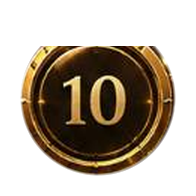
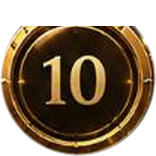
fix(kelime-avi): preserve extracted master art scale

diff --git a/test/word_hunt_production_assets_test.dart b/test/word_hunt_production_assets_test.dart
@@ -102,34 +102,56 @@ void main() {
       expect(WordHuntProductionAssets.finalIcon, endsWith('final_icon.png'));
     });
 
-    test('5, 10 ve kitap yalnız bağlayıcı MASTER ART extraction kaynağıdır', () {
-      final manifest =
-          jsonDecode(
-                File(
-                  'reports/master_art_extraction_manifest.json',
-                ).readAsStringSync(),
-              )
-              as Map<String, dynamic>;
-      expect(manifest['source'], 'Issue #109 Photo 1.jpg');
-      expect(
-        manifest['source_sha256'],
[1 lines of base64/hex data omitted]
-      );
-      expect(manifest['method'], 'direct-source-pixels-crop-mask-alpha');
+    test(
+      '5, 10 ve kitap yalnız bağlayıcı MASTER ART extraction kaynağıdır',
+      () {
+        final manifest =
+            jsonDecode(
+                  File(
+                    'reports/master_art_extraction_manifest.json',
+                  ).readAsStringSync(),
+                )
+                as Map<String, dynamic>;
+        expect(manifest['source'], 'Issue #109 Photo 1.jpg');
+        expect(
+          manifest['source_sha256'],
[1 lines of base64/hex data omitted]
+        );
+        expect(manifest['method'], 'direct-source-pixels-crop-mask-alpha');
 
-      final assets = manifest['assets'] as Map<String, dynamic>;
-      for (final entry in <(String, String)>[
-        ('node_challenge.webp', WordHuntProductionAssets.nodeChallenge),
-        ('node_final.webp', WordHuntProductionAssets.nodeFinal),
-        ('book_button.webp', WordHuntProductionAssets.bookButton),
-      ]) {
-        final metadata = assets[entry.$1] as Map<String, dynamic>;
-        final bytes = File(entry.$2).readAsBytesSync();
-        expect(sha256.convert(bytes).toString(), metadata['sha256']);
-        expect(metadata['source_pixel_identity'], true);
-        expect(metadata['generated_art'], false);
-      }
-    });
+        final assets = manifest['assets'] as Map<String, dynamic>;
+        for (final entry in <(String, String, List<int>)>[
+          (
+            'node_challenge.webp',
+            WordHuntProductionAssets.nodeChallenge,
+            <int>[112, 112],
+          ),
+          (
+            'node_final.webp',
+            WordHuntProductionAssets.nodeFinal,
+            <int>[156, 156],
+          ),
+          (
+            'book_button.webp',
+            WordHuntProductionAssets.bookButton,
+            <int>[172, 172],
+          ),
+        ]) {
+          final metadata = assets[entry.$1] as Map<String, dynamic>;
+          final bytes = File(entry.$2).readAsBytesSync();
+          expect(sha256.convert(bytes).toString(), metadata['sha256']);
+          expect(
+            metadata['dimensions'],
+            entry.$3,
+            reason:
+                'Şeffaf dış boşluk görünür MASTER ART parçasını küçültmemeli.',
+          );
+          expect(metadata['transparent_padding_trim'], isNotNull);
+          expect(metadata['source_pixel_identity'], true);
+          expect(metadata['generated_art'], false);
+        }
+      },
+    );
 
     for (final path in WordHuntProductionAssets.requiredPilotAssets) {
       testWidgets('Flutter codec decode eder: $path', (tester) async {

diff --git a/tools/extract_kelime_avi_master_art_assets.py b/tools/extract_kelime_avi_master_art_assets.py
@@ -109,8 +109,8 @@ def inner_face_alpha(
 
 
 def extract(source: Image.Image, name: str, spec: dict[str, object]) -> dict[str, object]:
-    crop_box = tuple(spec["crop"])
-    crop = source.crop(crop_box).convert("RGBA")
+    requested_crop_box = tuple(spec["crop"])
+    crop = source.crop(requested_crop_box).convert("RGBA")
     center = tuple(spec["center"])
     radial = radial_alpha(
         crop.size,
@@ -132,6 +132,27 @@ def extract(source: Image.Image, name: str, spec: dict[str, object]) -> dict[str
             alpha_bytes[start : start + crop.width] = bytes(crop.width)
         alpha = Image.frombytes("L", crop.size, bytes(alpha_bytes))
     crop.putalpha(alpha)
+
+    # Remove only fully transparent padding. This preserves the binding-source
+    # pixels and makes Flutter's BoxFit.contain scale the visible medallion or
+    # control to its measured contract diameter instead of shrinking it because
+    # of unused transparent canvas around the extraction.
+    if alpha.getbbox() is None:
+        raise RuntimeError(f"Empty alpha mask for {name}")
+    outer_radius = float(spec["outer_radius"])
+    alpha_bounds = (
+        max(0, math.floor(center[0] - outer_radius)),
+        max(0, math.floor(center[1] - outer_radius)),
+        min(crop.width, math.ceil(center[0] + outer_radius)),
+        min(crop.height, math.ceil(center[1] + outer_radius)),
+    )
+    crop = crop.crop(alpha_bounds)
+    crop_box = (
+        requested_crop_box[0] + alpha_bounds[0],
+        requested_crop_box[1] + alpha_bounds[1],
+        requested_crop_box[0] + alpha_bounds[2],
+        requested_crop_box[1] + alpha_bounds[3],
+    )
 
     destination = OUTPUT / name
     crop.save(destination, format="WEBP", lossless=True, method=6, exact=True)
@@ -159,6 +180,8 @@ def extract(source: Image.Image, name: str, spec: dict[str, object]) -> dict[str
 
     return {
         "source_crop": list(crop_box),
+        "requested_source_crop": list(requested_crop_box),
+        "transparent_padding_trim": list(alpha_bounds),
         "dimensions": [crop.width, crop.height],
         "mask": {
             "kind": "source-segmentation-plus-inner-face-radial-edge",
